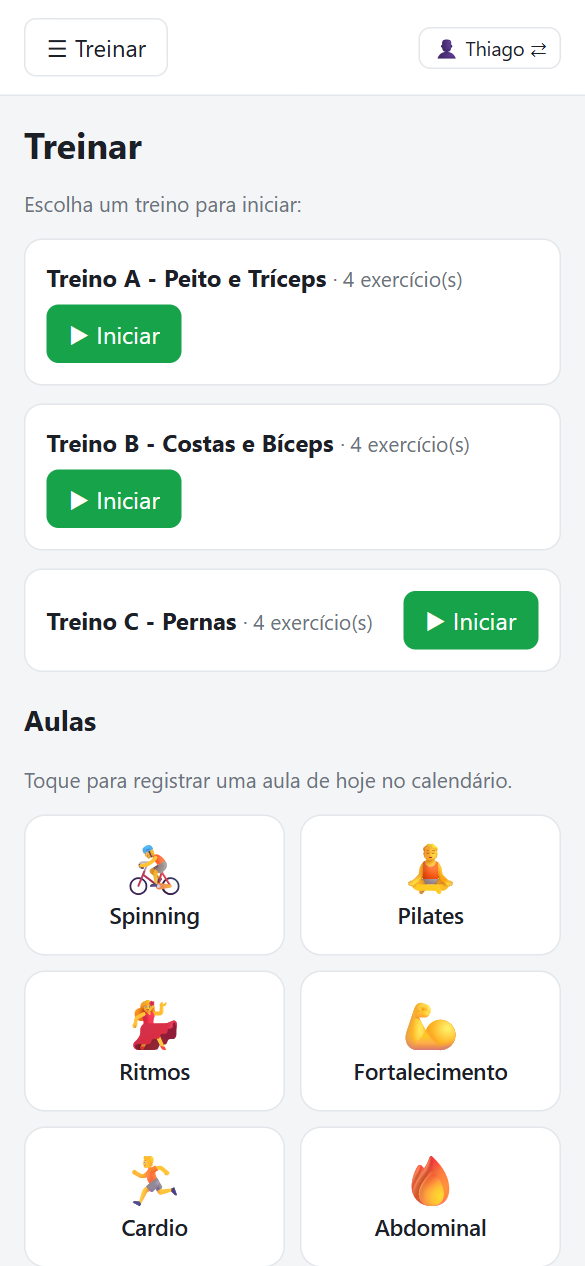
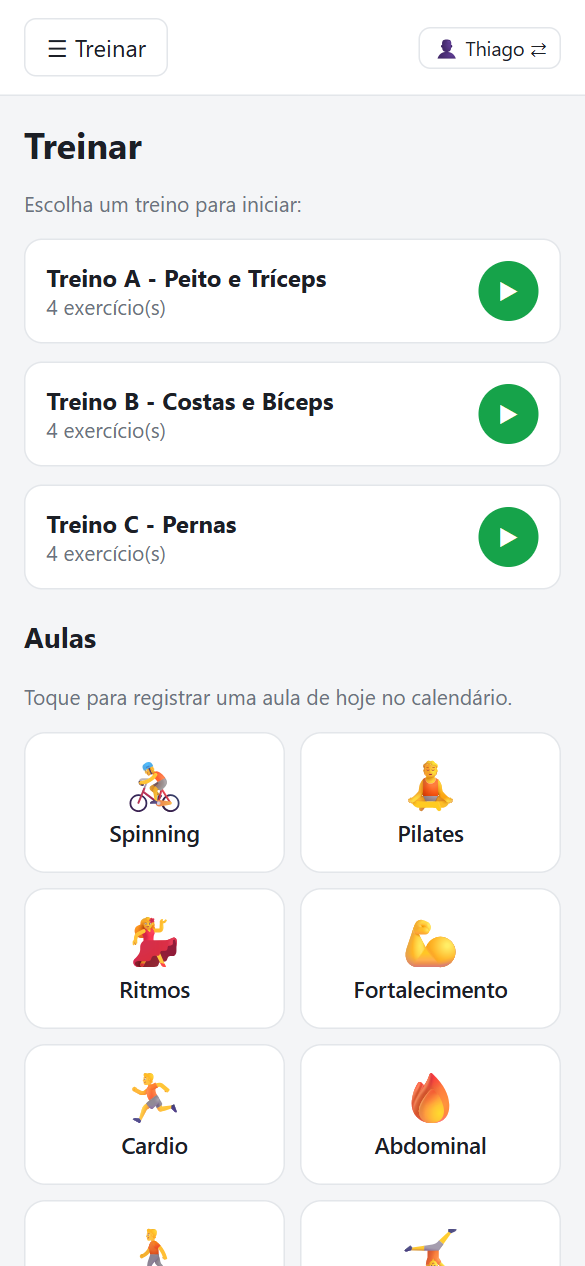
Botão de iniciar compacto na tela Treinar
O botão "▶ Iniciar" vira um botão redondo de 40px só com o ícone de play
(com title e aria-label "Iniciar <treino>"). A contagem de exercícios passa
para uma segunda linha fixa sob o nome, e a captura do README é atualizada.

diff --git a/public/app.js b/public/app.js
@@ -267,7 +267,7 @@ function renderExecutar() {
   const el = $('#view-executar');
   if (!session) {
     el.innerHTML = `<h2>Treinar</h2><p class="muted">Escolha um treino para iniciar:</p>` +
-      (routines.map(r => `<div class="panel row between"><div><strong>${esc(r.name)}</strong> <span class="muted">· ${r.items.length} exercício(s)</span></div><button class="btn ok" data-start="${r.id}">▶ Iniciar</button></div>`).join('') || '<p class="muted">Crie um treino primeiro na aba "Meus Treinos".</p>') + `
+      (routines.map(r => `<div class="panel row between"><div style="flex:1;min-width:0"><strong>${esc(r.name)}</strong><div class="muted">${r.items.length} exercício(s)</div></div><button class="btn ok play" data-start="${r.id}" title="Iniciar treino" aria-label="Iniciar ${esc(r.name)}">▶</button></div>`).join('') || '<p class="muted">Crie um treino primeiro na aba "Meus Treinos".</p>') + `
     <h3>Aulas</h3>
     <p class="muted" style="margin-top:0">Toque para registrar uma aula de hoje no calendário.</p>
     <div class="aulas">${AULAS.map(a => `<button class="aula" data-aula="${a.nome}"><span class="ic">${a.icone}</span>${a.nome}</button>`).join('')}</div>`;

diff --git a/public/style.css b/public/style.css
@@ -102,3 +102,5 @@ dialog{overflow-x:hidden}
 .aula .ic{font-size:34px;line-height:1}
 .aula:hover,.aula:active{border-color:var(--pri)}
 .reg + .reg{margin-top:12px;padding-top:12px;border-top:1px solid var(--line)}
+
+.btn.play{flex:none;width:40px;height:40px;padding:0;border-radius:50%;font-size:16px;line-height:1;display:inline-flex;align-items:center;justify-content:center}
